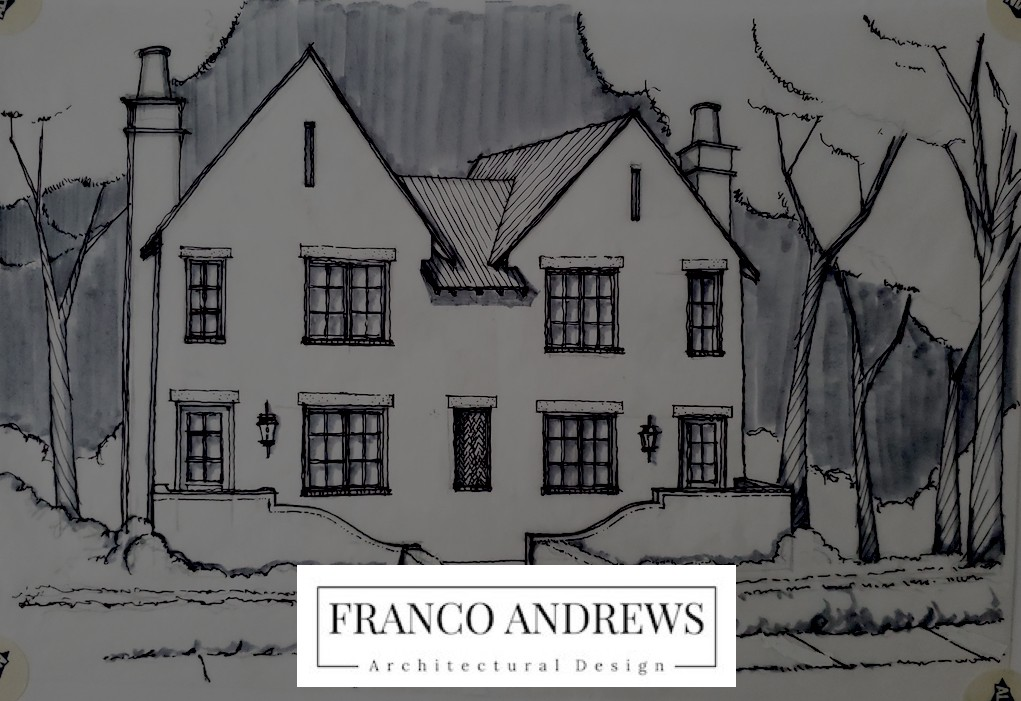
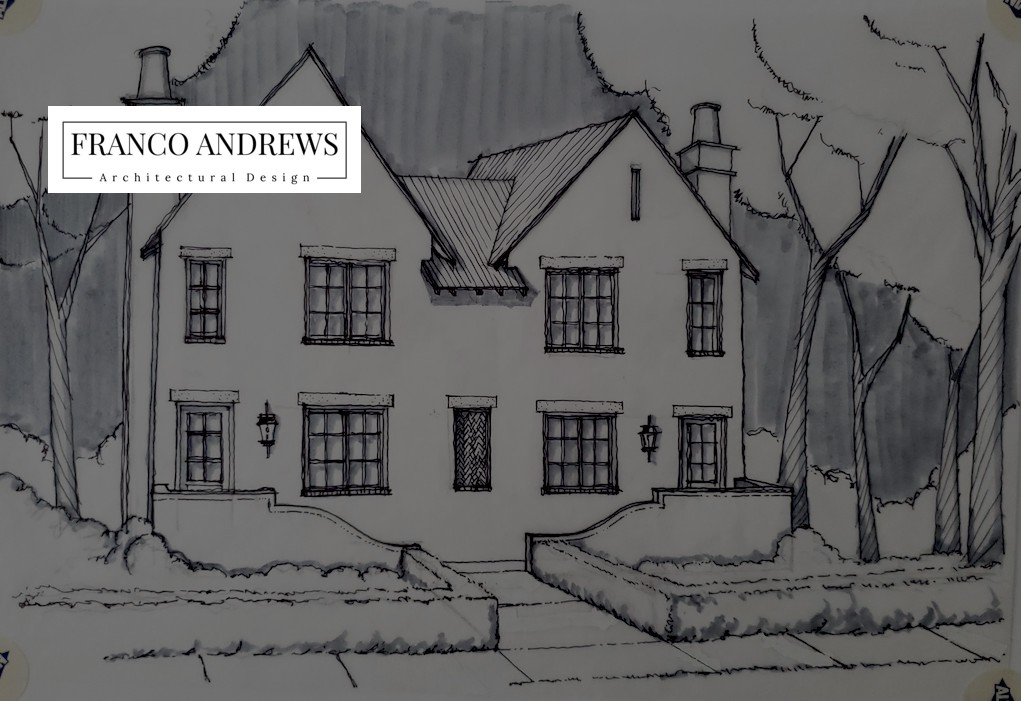
Update header image and remove header title

diff --git a/_includes/header.html b/_includes/header.html
@@ -9,7 +9,7 @@
                     <span class="icon-bar"></span>
                     <span class="icon-bar"></span>
                 </button>
-                <a class="navbar-brand page-scroll" href="#page-top">{{site.title}}</a>
+                <a class="navbar-brand page-scroll" href="#page-top"></a>
             </div>
 
             <!-- Collect the nav links, forms, and other content for toggling -->
